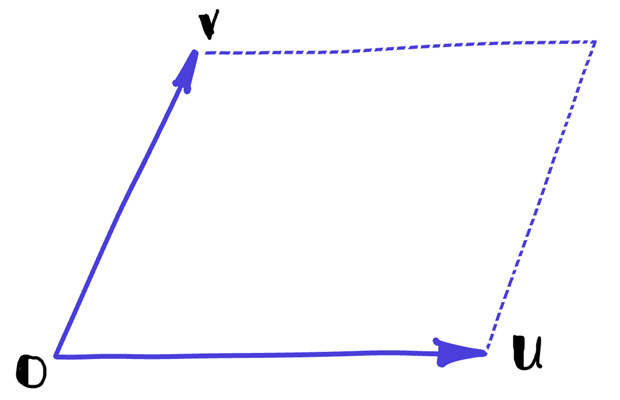
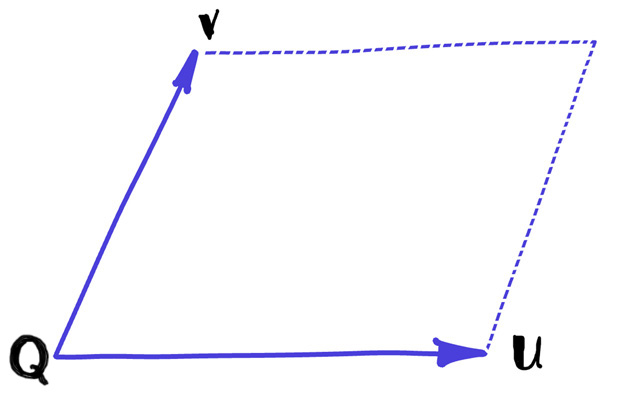
Rename quad corner point from O to Q.
To distinguish it from the 3D origin.

Changed region(s): [[0.0, 0.81, 0.0919, 0.99]]

diff --git a/books/RayTracingTheNextWeek.html b/books/RayTracingTheNextWeek.html
@@ -2326,11 +2326,11 @@ For our purposes, we'll use three geometric entities to define a quadrilateral. 
 we say "quadrilateral" here, we're really talking about parallelograms, a specific kind of
 quadrilateral where opposite sides are parallel. These three entities are
 
-1. $\mathbf{O}$, the lower-left corner of the quadrilateral.
+1. $\mathbf{Q}$, the lower-left corner of the quadrilateral.
 2. $\mathbf{u}$, a vector representing the first side of the quadrilateral.
-   $\mathbf{O} + \mathbf{u}$ gives the lower right corner.
+   $\mathbf{Q} + \mathbf{u}$ gives the lower right corner.
 3. $\mathbf{v}$, a vector representing the second side of the quadrilateral.
-   $\mathbf{O} + \mathbf{v}$ gives the upper left corner.
+   $\mathbf{Q} + \mathbf{v}$ gives the upper left corner.
 
 These values are three-dimensional, even though a quad itself is a two-dimensional object.
 
@@ -2341,7 +2341,7 @@ The following figure illustrates the quadrilateral components.
 
 Finding the Plane That Contains a Given Quadrilateral
 ------------------------------------------------------
-We have $\mathbf{O}$, $u$, and $v$, and want the corresponding equation of the plane containing all
+We have $\mathbf{Q}$, $u$, and $v$, and want the corresponding equation of the plane containing all
 three of these values (and thus the quad itself).
 
 Fortunately, this is very simple. Recall that in $Ax + By + Cz = D$, $(A,B,C)$ represents the
@@ -2350,9 +2350,9 @@ normal vector. To get this, we just use the cross product of the two side vector
   $$ \mathbf{n} = \text{unit_vector}(\mathbf{u} \times \mathbf{v}) $$
 
 The plane is defined as all points $(x,y,z)$ that satisfy the equation $Ax + By + Cz = D$. Well, we
-know that $\mathbf{O}$ lies on the plane, so we can use that to find $D$:
+know that $\mathbf{Q}$ lies on the plane, so we can use that to find $D$:
 
-  $$ D = \mathbf{n}_x\mathbf{O}_x + \mathbf{n}_y\mathbf{O}_y + \mathbf{n}_z\mathbf{O}_z $$
+  $$ D = \mathbf{n}_x\mathbf{Q}_x + \mathbf{n}_y\mathbf{Q}_y + \mathbf{n}_z\mathbf{Q}_z $$
 
 We can now use these two values $\mathbf{n}$ and $D$ to find the point of intersection with a given
 ray and the plane containing the quadrilateral.
@@ -2370,7 +2370,7 @@ To do this, we'll construct a _coordinate frame_ for the plane -- a way of orien
 on the plane. We've already been using a coordinate frame for our 3D space -- this is defined by an
 origin point $\mathbf{O}$ and three basis vectors $\mathbf{x}$, $\mathbf{y}$, and $\mathbf{z}$.
 
-Since a plane is a 2D construct, we just need a plane origin point $\mathbf{O}$ and _two_ basis
+Since a plane is a 2D construct, we just need a plane origin point $\mathbf{Q}$ and _two_ basis
 vectors: $\mathbf{u}$ and $\mathbf{v}$. Now normally, you see axes that are perpendicular to each
 other, so they all meet at 90° angles. However, this doesn't need to be the case in order to span
 the entire space -- you just need two axes that are not parallel to each other.
@@ -2379,13 +2379,13 @@ the entire space -- you just need two axes that are not parallel to each other.
 
 Consider figure [ray-plane] as an example. Ray $\mathbf{R}$ intersects the plane, yielding
 intersection point $\mathbf{P}$. Measuring against plane vectors $\mathbf{u}$ and $\mathbf{v}$, the
-intersection point $\mathbf{P}$ is at $\mathbf{O} + (1)\mathbf{u} + (\frac{1}{2})\mathbf{v}$. In
+intersection point $\mathbf{P}$ is at $\mathbf{Q} + (1)\mathbf{u} + (\frac{1}{2})\mathbf{v}$. In
 other words, the plane coordinates of intersection point $\mathbf{P}$ is $(1,\frac{1}{2})$.
 
 Generally, given some arbitrary point $\mathbf{P}$, we seek two scalar values $\alpha$ and $\beta$,
 so that
 
-  $$ \mathbf{P} = \mathbf{O} + \alpha \mathbf{u} + \beta \mathbf{v} $$
+  $$ \mathbf{P} = \mathbf{Q} + \alpha \mathbf{u} + \beta \mathbf{v} $$
 
 If $\mathbf{u}$ and $\mathbf{v}$ were guaranteed to be orthogonal to each other (forming a 90°
 angle between them), then this would be a simple matter of projecting $\mathbf{P}$ onto the two
@@ -2393,12 +2393,12 @@ basis vectors $\mathbf{u}$ and $\mathbf{v}$. However, since we are not restricti
 perpendicular, and allowing them to form any angle (other than zero), the math's a little bit
 trickier.
 
-$$ \mathbf{P} = \mathbf{O} + \alpha \mathbf{u} + \beta \mathbf{v}$$
+$$ \mathbf{P} = \mathbf{Q} + \alpha \mathbf{u} + \beta \mathbf{v}$$
 
-$$ \mathbf{p} = \mathbf{P} - \mathbf{O} = \alpha \mathbf{u} + \beta \mathbf{v} $$
+$$ \mathbf{p} = \mathbf{P} - \mathbf{Q} = \alpha \mathbf{u} + \beta \mathbf{v} $$
 
 Here, $\mathbf{P}$ is the _point_ of intersection, and $\mathbf{p}$ is the _vector_ from
-$\mathbf{O}$ to $\mathbf{P}$.
+$\mathbf{Q}$ to $\mathbf{P}$.
 
 Cross the above equation with $\mathbf{u}$ and $\mathbf{v}$, respectively:
 
